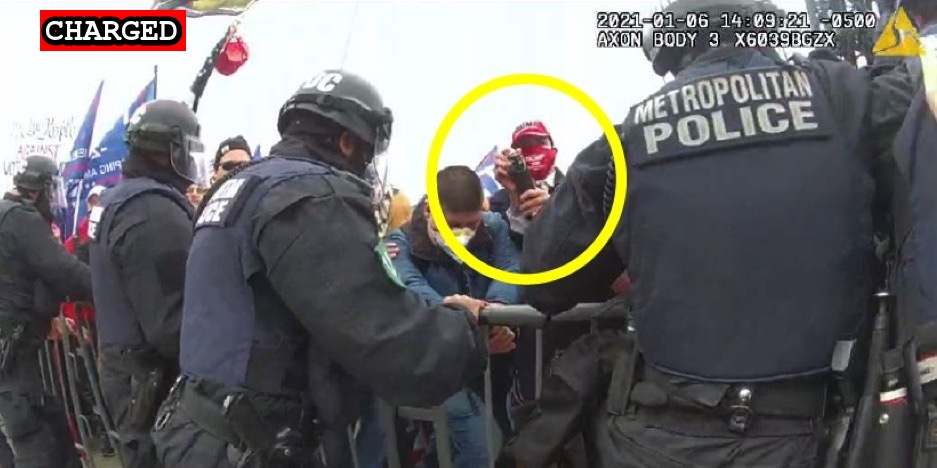
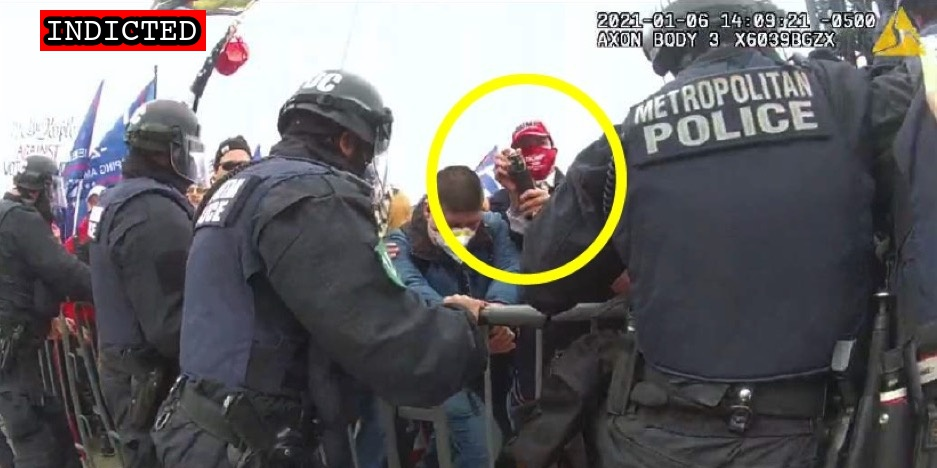
imported updates

Changed region(s): [[0.0309, 0.0, 0.2476, 0.1197]]

diff --git a/docs/_suspects/paul-johnson.md b/docs/_suspects/paul-johnson.md
@@ -36,7 +36,6 @@ videos:
 charges:
 sentence:
 ---
-
 - [News Report](https://www.wusa9.com/article/news/national/capitol-riots/virginia-man-charged-in-capitol-riot-assault-that-gave-officer-concussion-paul-russell-johnson-lanexa/65-fa9f1175-7df1-44cf-949f-832027907a81)
 - [Complaint](https://www.justice.gov/usao-dc/case-multi-defendant/file/1386856/download)
 - [DOJ Press Release](https://www.justice.gov/usao-dc/pr/virginia-man-arrested-assaulting-us-capitol-police-officer-jan-6-capitol-breach)
@@ -44,3 +43,4 @@ sentence:
 - [Incriminating Evidence (VIDEO)](https://www.instagram.com/p/CJugaFfnFD7/)
 - [Incriminating Interview (VIDEO)](https://youtu.be/ObVMGPGHRe8?t=5855)
 - [Indictment](https://www.justice.gov/usao-dc/case-multi-defendant/file/1390826/download)
+- [Defense Motion for Modification of Bond](https://extremism.gwu.edu/sites/g/files/zaxdzs2191/f/Paul%20Russell%20Johnson%20Government%20Opposition%20to%20Motion%20to%20Modify%20Conditions%20of%20Release.pdf)

diff --git a/docs/_suspects/edward-rodriguez.md b/docs/_suspects/edward-rodriguez.md
@@ -4,10 +4,10 @@ lastName: Rodriguez
 hashtag: SuitMacer
 aka:
 residence: New York
-status: Charged
+status: Indicted
 date: 2021-07-09
 charged: 2021-07-09
-indicted:
+indicted: 2021-07-21
 convicted:
 sentenced:
 dismissed:
@@ -36,7 +36,7 @@ videos:
 charges:
 sentence:
 ---
-
 - [News Report](https://www.msn.com/en-us/news/crime/here-in-america-we-fight-back-formally-dressed-man-dubbed-suitmacer-charged-with-spraying-police-during-capitol-siege/ar-AALZYmU)
 - [Statement of Facts](https://www.justice.gov/usao-dc/case-multi-defendant/file/1410871/download)
 - [Edgar macing police officers (Video)](https://twitter.com/1600PennPooch/status/1413630211774730242)
+- [Indictment](https://extremism.gwu.edu/sites/g/files/zaxdzs2191/f/Edward%20Rodriguez%20Indictment.pdf)

diff --git a/docs/_suspects/ryan-samsel.md b/docs/_suspects/ryan-samsel.md
@@ -36,9 +36,9 @@ videos:
 charges:
 sentence:
 ---
-
 - [News Report](https://www.buckscountycouriertimes.com/story/news/2021/02/01/bristol-man-charged-assaulting-officer-during-insurrection/4338235001/)
 - [Complaint](https://www.justice.gov/file/1362781/download)
 - [Statement of Facts](https://www.justice.gov/opa/page/file/1362781/download)
 - [Indictment](https://www.justice.gov/usao-dc/case-multi-defendant/file/1427996/download)
 - [DOJ Press Release (Indictment)](https://www.justice.gov/usao-dc/pr/pennsylvania-man-indicted-assault-law-enforcement-during-jan-6-capitol-breach)
+- [Detention Order](https://extremism.gwu.edu/sites/g/files/zaxdzs2191/f/Ryan%20Stephen%20Samsel%20Government%20Opposition%20to%20Defense%20Motion%20to%20Revoke%20Detention%20Order.pdf)

diff --git a/docs/_suspects/andrew-taake.md b/docs/_suspects/andrew-taake.md
@@ -4,10 +4,10 @@ lastName: Taake
 hashtag: MacerInBlack
 aka:
 residence: Texas
-status: Charged
+status: Indicted
 date: 2021-07-21
 charged: 2021-07-21
-indicted:
+indicted: 2021-07-30
 convicted:
 sentenced:
 dismissed:
@@ -36,6 +36,6 @@ videos:
 charges:
 sentence:
 ---
-
 - [News Report](https://www.newsweek.com/capitol-rioter-andrew-taakes-boasts-dating-app-bumble-lead-arrest-1612804)
 - [Statement of Facts](https://www.justice.gov/opa/case-multi-defendant/file/1415156/download)
+- [Indictment](https://extremism.gwu.edu/sites/g/files/zaxdzs2191/f/Andrew%20Quentin%20Taake%20Indictment.pdf)

diff --git a/docs/_suspects/stephen-randolph.md b/docs/_suspects/stephen-randolph.md
@@ -36,7 +36,7 @@ videos:
 charges:
 sentence:
 ---
-
 - [News Report](https://www.huffpost.com/entry/facial-recognition-capitol-defendants_n_607f34c0e4b0df3610c17614)
 - [Statement of Facts](https://www.justice.gov/usao-dc/case-multi-defendant/file/1388841/download)
 - [Indictment](https://www.justice.gov/usao-dc/case-multi-defendant/file/1390826/download)
+- [Detention Order](https://extremism.gwu.edu/sites/g/files/zaxdzs2191/f/Stephen%20Chase%20Randolph%20Government%20Opposition%20to%20Motion%20to%20Revoke%20Detention%20Order.pdf)
